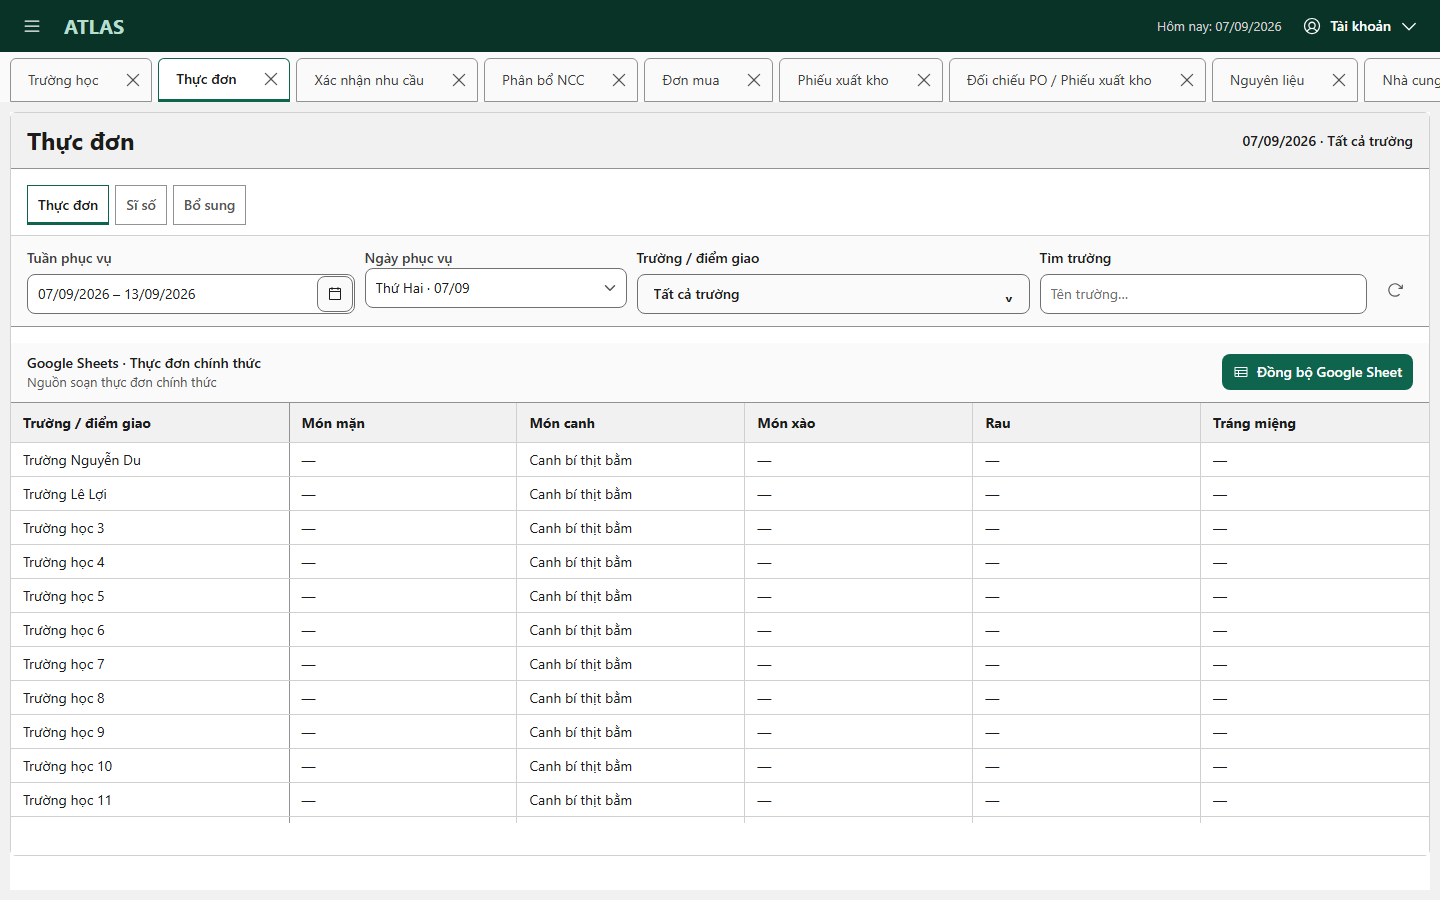
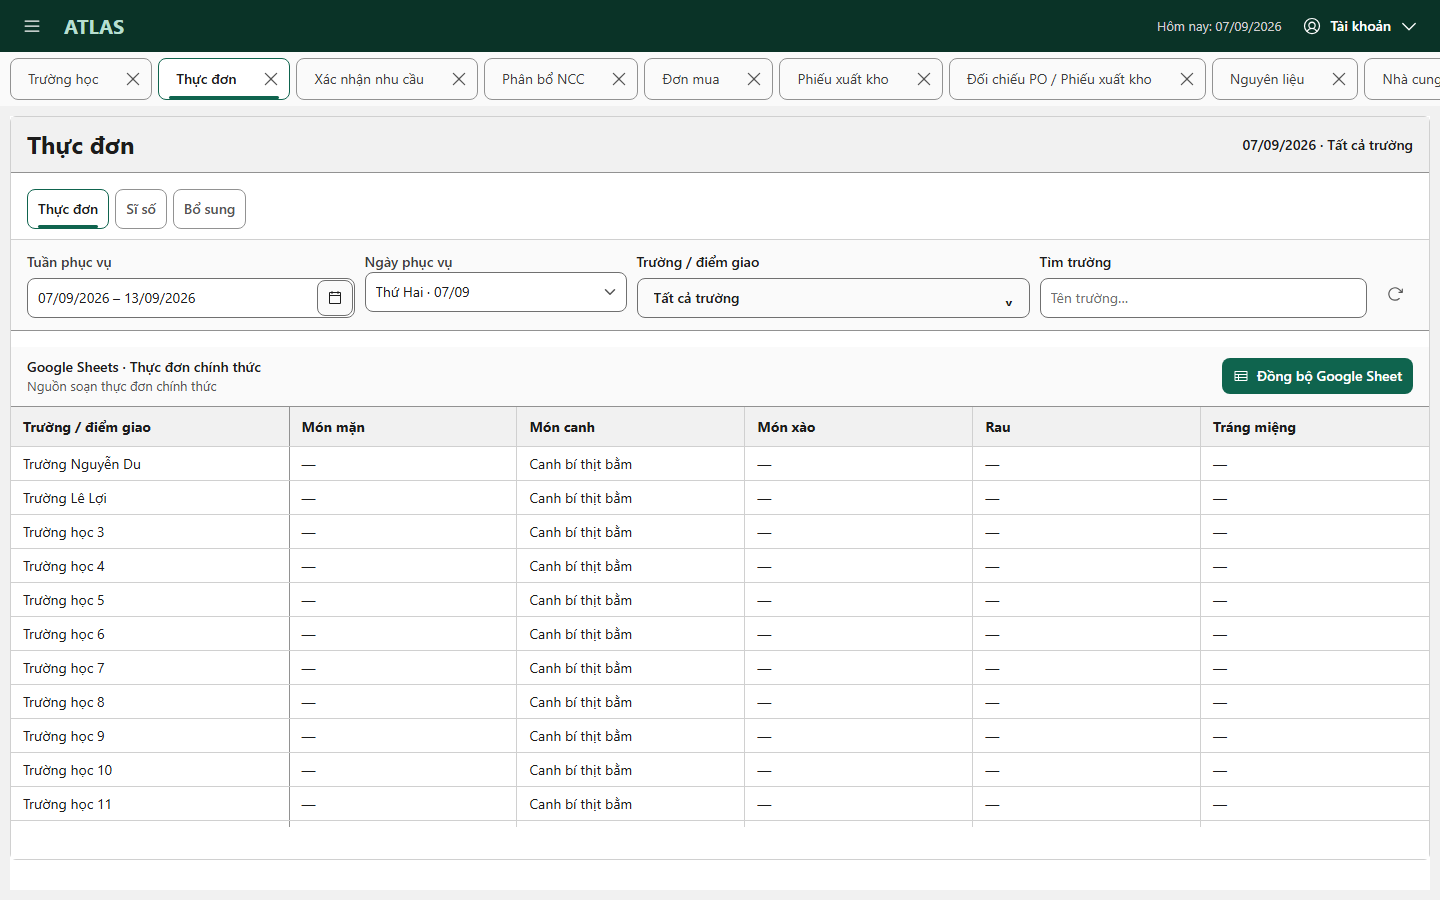
fix(ui): soften Atlas tabs with rounded corners and inset markers

diff --git a/src/vnext/atlas/AtlasVNextShell.tsx b/src/vnext/atlas/AtlasVNextShell.tsx
@@ -22,6 +22,7 @@ import {
   type AtlasWorkbenchDefinition,
   type AtlasWorkbenchId,
 } from "./AtlasWorkbenchRegistry";
+import { atlasPrimaryTabTrigger } from "./AtlasTaskTabs";
 import type { AtlasWorkbenchStatus } from "./AtlasModuleExit";
 import { foldVietnameseSearch } from "./foldVietnameseSearch";
 import { formatVietnamBusinessDate } from "./businessDate";
@@ -435,6 +436,7 @@ export function AtlasVNextShell({
           bg="bg.toolbar"
           px="sm"
           pt="xs"
+          pb="xs"
         >
           <Flex
             w="var(--atlas-workspace-tab-content-width, max-content)"
@@ -450,19 +452,20 @@ export function AtlasVNextShell({
                 }}
                 align="center"
                 bg={id === activeModule ? "bg.workbench" : "transparent"}
-                borderTopRadius="workbench"
+                borderRadius="control"
                 borderWidth="var(--atlas-layout-edge, 1px)"
                 borderColor={
                   id === activeModule ? "border.accent" : "border.default"
                 }
-                borderBottomWidth={
-                  id === activeModule
-                    ? "var(--atlas-workspace-selected-edge, 3px)"
-                    : "var(--atlas-layout-edge, 1px)"
-                }
-                borderBottomColor={
-                  id === activeModule ? "border.accent" : "border.default"
-                }
+                position="relative"
+                overflow="visible"
+                _after={{
+                  ...atlasPrimaryTabTrigger._after,
+                  opacity:
+                    id === activeModule
+                      ? "var(--atlas-layout-tab-marker-visible, 1)"
+                      : "var(--atlas-layout-tab-marker-hidden, 0)",
+                }}
                 _hover={{
                   bg: id === activeModule ? "bg.workbench" : "bg.context",
                   borderColor:
@@ -483,7 +486,8 @@ export function AtlasVNextShell({
                   variant="utility"
                   color={id === activeModule ? "fg.default" : "fg.secondary"}
                   fontWeight={id === activeModule ? "semibold" : "normal"}
-                  borderRadius="var(--atlas-layout-zero, 0)"
+                  borderStartRadius="control"
+                  borderEndRadius="var(--atlas-layout-zero, 0)"
                   _hover={{ bg: "transparent", color: "fg.primary" }}
                   onClick={() => select(id)}
                   onKeyDown={(event) => tabKeys(event, id)}

diff --git a/src/vnext/atlas/AtlasTaskTabs.ts b/src/vnext/atlas/AtlasTaskTabs.ts
@@ -38,6 +38,7 @@ export const atlasPrimaryTabTrigger = {
     bottom: "var(--atlas-layout-zero, 0)",
     height: "var(--atlas-layout-tab-marker, 3px)",
     bg: "border.accent",
+    borderRadius: "control",
     opacity: "var(--atlas-layout-tab-marker-hidden, 0)",
   },
   _selected: {
@@ -74,25 +75,23 @@ export const atlasSecondaryTabTrigger = {
   py: "xs",
   color: "fg.muted",
   fontWeight: "semibold",
-  borderRadius: "var(--atlas-layout-zero, 0)",
+  borderRadius: "control",
   borderWidth: "var(--atlas-layout-edge, 1px)",
   borderColor: "border.default",
   _hover: { bg: "bg.context", borderColor: "border.strong" },
   focusVisibleRing: "outside",
   focusRingColor: "focus.ring",
+  position: "relative",
+  _after: atlasPrimaryTabTrigger._after,
   _selected: {
     color: "fg.primary",
     bg: "bg.workbench",
     borderColor: "border.accent",
     _hover: { bg: "bg.workbench", borderColor: "border.accent" },
     fontWeight: "semibold",
-    _horizontal: {
-      _before: {
-        bg: "border.accent",
-        height: "var(--atlas-layout-tab-marker, 3px)",
-      },
-    },
+    _after: { opacity: "var(--atlas-layout-tab-marker-visible, 1)" },
   },
+  _before: { display: "none" },
 } as const;
 
 export const atlasVisuallyHidden = {

diff --git a/docs/ui/atlas-design-language-v3.md b/docs/ui/atlas-design-language-v3.md
@@ -64,9 +64,9 @@ Keep tabular numbers aligned, and quantity and Unit paired. Recover density thro
 
 Inputs/selects/date fields/textareas and checkboxes have a visible Neutral 500 resting border, Brand hover/focus and independent Danger invalid styling. They look editable before hover. Disabled controls use Neutral 100 fill, Neutral 600 text, Neutral 300 border and full opacity, including hover/pressed states. A disabled primary action is neutral. Textareas retain a 60px minimum; mobile controls retain 44px targets.
 
-Selected rows and compact selected Dishes combine Brand 100 fill and a **3px Brand edge**. Neutral hover stays different from selection; sticky cells inherit both states. Active workspace tabs join the white workbench with stronger text and a **3px Brand bottom edge**. Inactive tabs use transparent fill on Neutral 50; dirty/attention markers remain independent from activation. The Recipe editor's existing action footer stays reachable at the bottom of its scrolling workplane; master-detail geometry is unchanged.
+Selected rows and compact selected Dishes combine Brand 100 fill and a **3px Brand edge**. Neutral hover stays different from selection; sticky cells inherit both states. Active workspace tabs use white fill, stronger text and an **inset 3px Brand underline with rounded ends**. Tabs use the existing 8px control radius on all corners; space below the workspace strip keeps the lower corners visible. Inactive tabs use transparent fill on Neutral 50; dirty/attention markers remain independent from activation. The Recipe editor's existing action footer stays reachable at the bottom of its scrolling workplane; master-detail geometry is unchanged.
 
-**Owner-approved tab legibility polish — 8 October 2026:** Workspace and internal job tabs have visible neutral resting borders. Active tabs use an accent outline, white fill and the existing Brand underline; neutral hover and a separate keyboard focus ring distinguish interaction from selection. Workspace dirty/attention markers, close guards, retained state and the mobile open-owner selector keep their existing contracts.
+**Owner-approved tab legibility polish — 8 October 2026:** Workspace and internal job tabs have rounded 8px corners and visible neutral resting borders. Active tabs use an accent outline, white fill and a shared inset Brand underline with rounded ends; neutral hover and a separate keyboard focus ring distinguish interaction from selection. Workspace dirty/attention markers, close guards, retained state and the mobile open-owner selector keep their existing contracts. See the [desktop and narrow review evidence](../testing/ux/atlas-tab-borders/README.md).
 
 The shared left scroll-continuation fade stays below pinned identity cells. It must not wash out a selected edge: final browser certification samples the rendered rail pixel at every viewport, beyond checking the existence of a CSS indicator.
 

diff --git a/docs/testing/ux/atlas-tab-borders/README.md b/docs/testing/ux/atlas-tab-borders/README.md
@@ -1,14 +1,14 @@
 # Tab border legibility — 8 October 2026
 
-Owner-approved presentation change: neutral tab boundaries, accent selected outlines, 3px selected underlines, neutral hover and visible keyboard focus. Scope is the workspace shell and shared primary/secondary task-tab styles. No handlers, business contracts, API calls, permissions or state ownership changed.
+Owner-approved presentation change: rounded 8px tab corners, neutral boundaries, accent selected outlines, inset 3px selected underlines with rounded ends, neutral hover and visible keyboard focus. Scope is the workspace shell and shared primary/secondary task-tab styles. No handlers, business contracts, API calls, permissions or state ownership changed.
 
 ## Verification
 
 - Local fixture review of the production workbenches at 1920×1080, 1440×900, 1366×768, 650×900 and 360×800: all eleven owners reachable; no document overflow or browser errors.
-- Rendered CSS checks: 1px resting boundaries, 3px selected underline, distinct selected/hover treatment and at least 2px keyboard focus outlines. The secondary underline uses the accent token despite Chakra's selected/horizontal recipe specificity.
+- Rendered CSS checks: 8px corners on all tabs, 1px resting boundaries, inset 3px selected underlines, distinct selected/hover treatment and at least 2px keyboard focus outlines. All tab tiers reuse the shared rounded marker; secondary tabs suppress Chakra's full-width marker.
 - Workspace Home/End switching and the narrow open-owner selector passed. Internal source selection retains its existing heading-focus handoff. Narrow targets retain 44px height.
-- 71 focused system/shell/persistent-workspace/handoff tests passed; the 44 system/navigation tests passed again after the final underline correction. UI boundary, changed-file formatting and diff whitespace checks passed.
-- Independent read-only review found no actionable issues. Full frontend validation runs in GitHub Actions; hosted and real staff usage are not claimed by this fixture review.
+- 71 focused system/shell/persistent-workspace/handoff tests passed. UI boundary, changed-file formatting and diff whitespace checks passed.
+- UI art direction and an independent visual finish review passed with no tab-scope findings. Full frontend validation runs in GitHub Actions; hosted and real staff usage are not claimed by this fixture review.
 
 ![Desktop: eleven open owners and internal source tabs](planning-1440x900.png)
 
